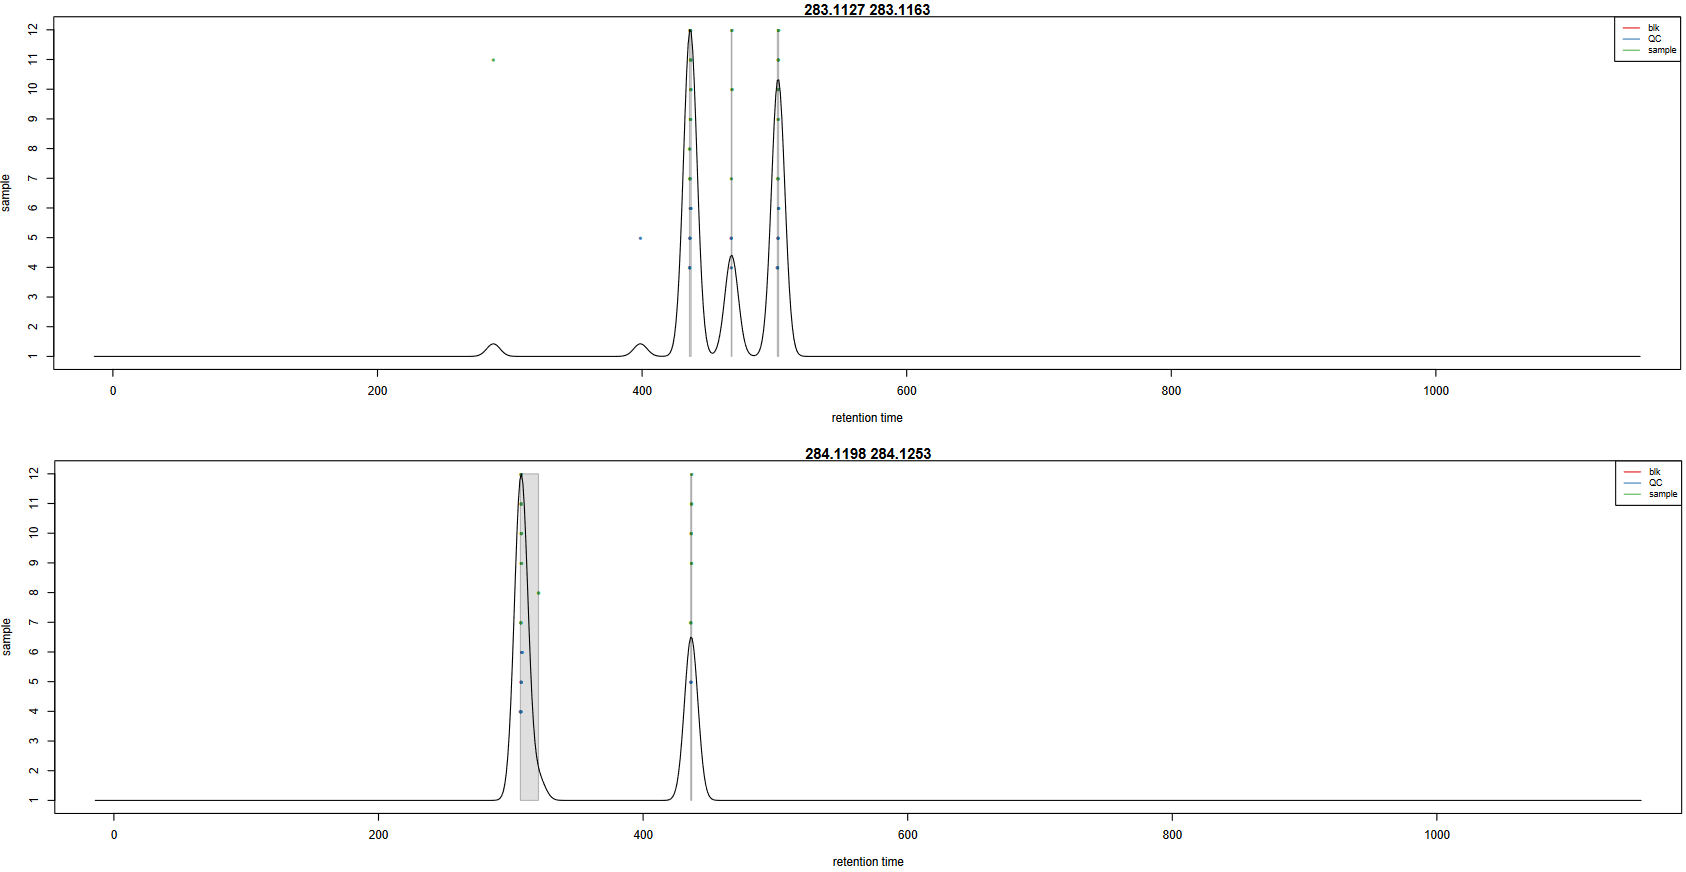
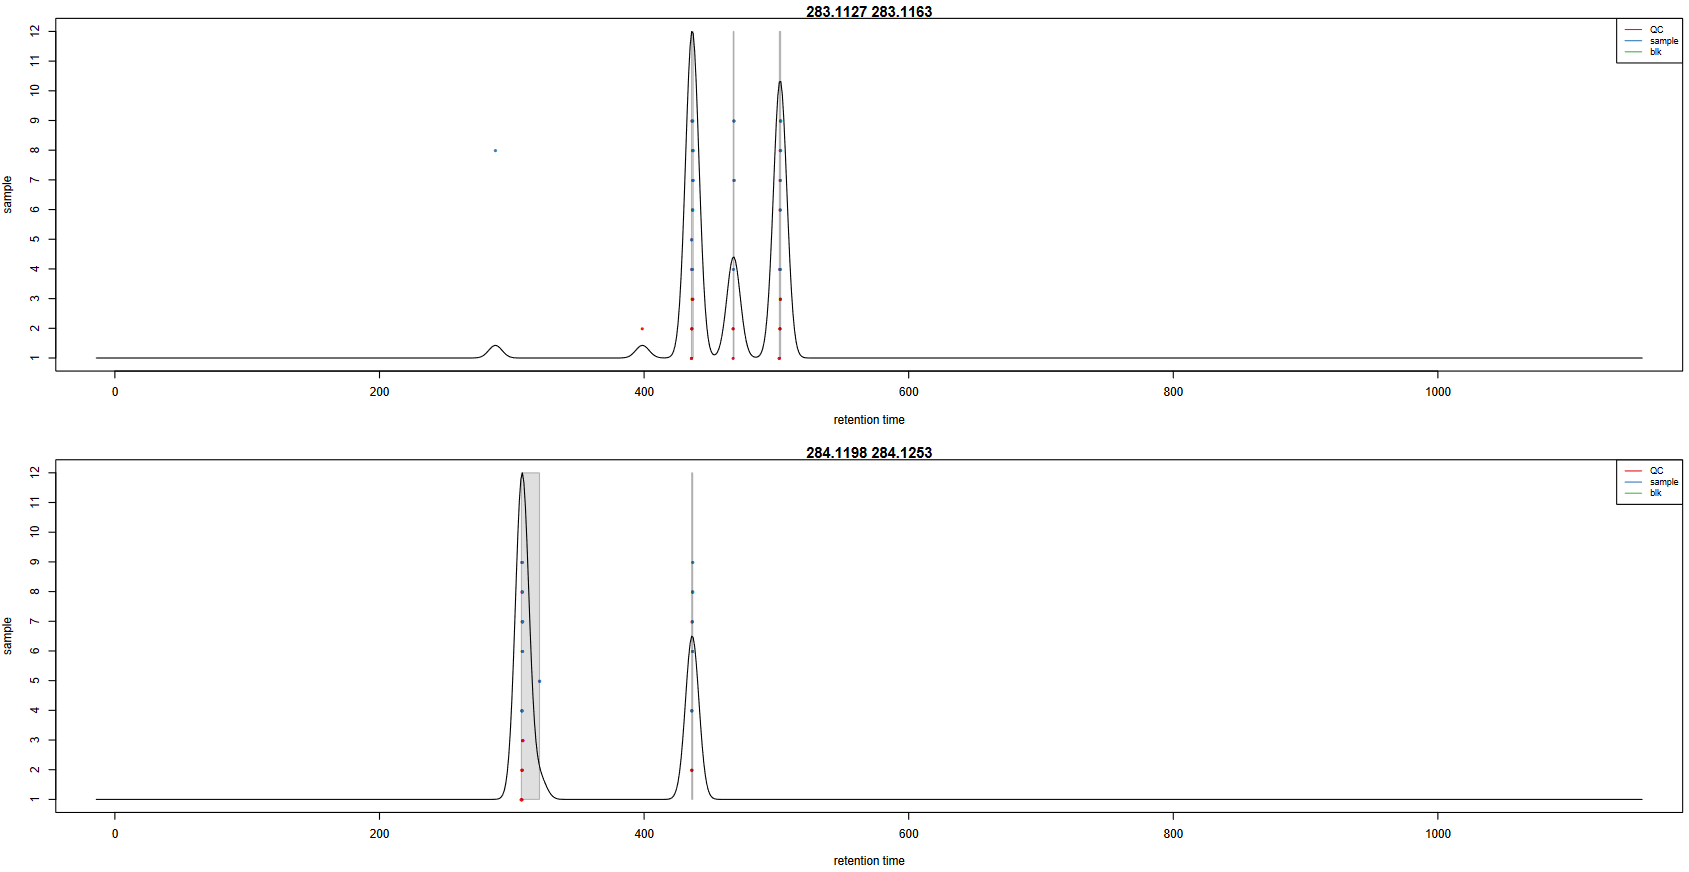
[lcms-preproc] Still a few typos

diff --git a/topics/metabolomics/tutorials/lcms-preprocessing/tutorial.md b/topics/metabolomics/tutorials/lcms-preprocessing/tutorial.md
@@ -1,14 +1,13 @@
 ---
 layout: tutorial_hands_on
-enable: false
 
 title: 'Mass spectrometry: LC-MS preprocessing - advanced'
 zenodo_link: 'https://zenodo.org/record/3757956'
 questions:
-- What are the main steps of untargeted LC-MS data preprocessing for metabolomic analysis?
+- What are the main steps of untargeted LC-MS data preprocessing for metabolomic analyses?
 - How to conduct metabolomic data preprocessing using Galaxy?
 objectives:
-- To comprehend the diversity of steps necessary to perform untargetted LC-MS metabolomic preprocessing.
+- To comprehend the diversity of steps necessary to perform untargeted LC-MS metabolomic preprocessing.
 - To get familiar with the way to use XCMS-based Galaxy modules dedicated to LC-MS data preprocessing.
 - To evaluate the potential of a workflow approach when dealing with LC-MS preprocessing.
 time_estimation: '3h'
@@ -32,8 +31,8 @@ Metabolomics is a *-omic* science known for being one of the most closely relate
 It involves the study of different types of matrices, such as blood, urine, tissues, in various organisms including plants.
 It focuses on studying the very small molecules which are called *metabolites*, to better understand matters linked to the metabolism.
 
-One of the three main technologies used to perform metabolomic analysis is **Liquid-Chromatography Mass Spectrometry** (LC-MS). Data analysis
-for this technology requires a large variety of steps, ranging from extracting information from the raw data, to statistical analysis and annotation.
+One of the three main technologies used to perform metabolomic analyses is **Liquid-Chromatography Mass Spectrometry** (LC-MS). Data analysis
+for this technology requires a large variety of steps, ranging from extracting information from the raw data to statistical analysis and annotation.
 To be able to perform a complete LC-MS analysis in a single environment, the [Wokflow4Metabolomics](http://workflow4metabolomics.org/)
 team provides Galaxy tools dedicated to metabolomics. This tutorial details the steps involved in the first part of untargeted LC-MS 
 data processing: extracting information from raw data to obtain what is called a peak table. This step is commonly refered to as
@@ -45,7 +44,7 @@ from 183 employees from the French Alternative Energies and Atomic Energy Commis
 (negative ionization mode).
 
 Since the original dataset takes a few hours to be processed, we chose to take a limited subset of individuals for this tutorial.
-This will allow you to perform an example of metabolomic preprocessing workflow in a limited time, even though
+This will enable you to perform an example of metabolomic preprocessing workflow in a limited time, even though
 the results obtained may not be reliable enough for biological interpretation due to the small sample size.
 Nevertheless, the chosen diversity of sample will allow you to explore the basics of a preprocessing workflow.
 
@@ -107,8 +106,8 @@ First of all, you need to upload your data (that must be in one of the cited ope
 
 In metabolomics studies, the number of samples can vary a lot (from a handful to several hundreds). Thus, extracting your
 data from the raw files can be very fast, or take quite a long time. To optimise the computation time as much as possible,
-the W4M core team chose to develop tools that can run single raw files for the first steps of
-pre-processing in parallel, since the initial actions in the extraction process treat files independently.
+the W4M core team chose to develop tools that can run single raw files in parallel for the first steps of
+pre-processing, since the initial actions in the extraction process treat files independently.
 
 Since the first steps can be run on each file independently, the use of **Dataset collections** in Galaxy is recommended, to avoid
 having to launch jobs manually for each sample. You can start using the dataset collection option from the very beginning of your analysis, when uploading your data into Galaxy.
@@ -171,7 +170,7 @@ This first step is only meant to read your `mzXML` file and generate an object u
 
 > ### {% icon hands_on %} Hands-on: MSnbase readMSData
 >
-> **MSnbase readMSData** {% icon tool %} with the following parameters:
+> Run **MSnbase readMSData** {% icon tool %} with the following parameters:
 >   - *"File(s) from your history containing your chromatograms"*: the `mzML` dataset collection
 >
 >   {% include snippets/select_collection.md %}
@@ -515,7 +514,7 @@ with the second column defining theses classes.
 
 > ### {% icon hands_on %} Hands-on: xcms findChromPeaks Merger
 >
-> **xcms findChromPeaks Merger** {% icon tool %} with the following parameters:
+> 1. **xcms findChromPeaks Merger** {% icon tool %} with the following parameters:
 >   - *"RData file"*: `mzML.raw.xset.RData` (collection)
 >   - *"Sample metadata file"*: `sampleMetadata_completed.tsv`
 >
@@ -552,7 +551,7 @@ model to group together peaks with similar retention time.
 
 The inclusion of ions in a group is defined by the standard deviation of the Gaussian model, called bandwidth. This parameter has a large weight
 on the resulting matrix. It must be chosen according to the quality of the chromatography. To be valid, the number of ions in a group must be greater
-than a given number of samples. Either a percentage of the total number of samples or an absolute value of samples can be given. This is defined by the user.
+than a given number of samples. Either a percentage of the total number of samples or an absolute number of samples can be given. This is defined by the user.
 
 > ### {% icon hands_on %} Hands-on: xcms groupChromPeaks (group)
 >
@@ -563,18 +562,18 @@ than a given number of samples. Either a percentage of the total number of sampl
 >     - *"Minimum fraction of samples"*: `0.9`
 >     - *"Width of overlapping m/z slices"*: `0.01`
 >   - *"Get the Peak List"*: `Yes`
->     - *"Replace the remain NA by 0 in the dataMatrix"*: `No`
+>     - *"If NA values remain, replace them by 0 in the dataMatrix"*: `No`
 >
 > > ### {% icon comment %} Minimum fraction of samples
 > >
-> > This parameter sets the minimum proportion of samples in a class where a peak should have been found to keep the corresponding ion in the peaktable.
+> > This parameter sets the minimum proportion of samples in a class where a peak should be found to keep the corresponding ion in the peaktable.
 > > The idea is to look inside each class (*i.e.* each group of samples defined in the second column of the sampleMetadata file) and to keep
 > > an ion if there is at least one class where the ion is found in at least the specified proportion of samples.
 > >
 > > In this tutorial, we considered three classes: one for samples, one for pools and one for blanks. Since pools are a mix of all biological samples,
-> > we may want to consider an ion only if it is find in every pools. Thus, we may consider setting the 'Minimum fraction of samples' parameter to 1.
+> > we may want to consider an ion only if it is found in every pools. Thus, we may consider setting the 'Minimum fraction of samples' parameter to 1.
 > > Considering that it sometimes happens that one sample can be a little out of the box for various reasons (pools do not make exception),
-> > we may consider to lower a little this threshold, for example using a proportion of 0.9.
+> > we may consider to lower a little this threshold, for example using a proportion of 0.9. 
 > >
 > > Please note that in our example, since the dataset contains only 3 pools, this would make no difference to 1.0 concerning the 'pools' class.
 > {: .comment}
@@ -592,8 +591,9 @@ This grouping step is very important because it defines the data matrix which wi
 User has to check the effect of parameter values on the result.
 
 In order to check the result of the grouping function, a pdf file is created. It provides one plot per m/z slice found in the data. Each picture
-represents the peak density across samples, plotting the corresponding Gaussian model which width is defined by the bandwidth parameter. Each red
-dot corresponds to a sample. The plot allows to assess the quality of alignment. The grey areas' width is associated with the bandwidth parameter.
+represents the peak density across samples, plotting the corresponding Gaussian model which width is defined by the bandwidth parameter. Each dot
+corresponds to a sample, with colours corresponding to defined classes if any. The plot allows to assess the quality of alignment.
+The grey areas' width is associated with the bandwidth parameter.
 
 Here is an example of two m/z slides obtained from the hands-on:
 
@@ -619,7 +619,7 @@ previous peak group, thus not assigned to any peak group due to the 0.9 minimum 
 {: .question}
 
 When performing a grouping step, you construct a peak table. Even if this step may not be the final extraction step, you can take this opportunity
-to check how your peak table looks like at this point of the XCMS extraction. For this, you need to set the 'Get the Peak List' option to `Yes`
+to check how your peak table looks at this point of the XCMS extraction. For this, you need to set the 'Get the Peak List' option to `Yes`
 as done in this tutorial hands-on. This option generates two additional tables:
 - a data matrix (xset.merged.group.dataMatrix.tsv) with intensities for each ion and each sample;
 - a variable metadata file (xset.merged.group.variableMetadata.tsv) with information concerning the ions.
@@ -631,16 +631,16 @@ The variable metadata file contains various information that can be of interest:
 - the number of samples in which each ion has been found, for each class (one column per class).
 
 The data matrix contains the intensities for each ion and each sample. When no peak was found in a sample for a specific ion, value is given as NA
-(you can choose to get a '0' value instead, using the 'Replace the remain NA by 0 in the dataMatrix' option). You can get a summary of NA proportions
+(you can choose to get a '0' value instead, using the 'If NA values remain, replace them by 0 in the dataMatrix' option). You can get a summary of NA proportions
 using the **Intensity Check** {% icon tool %} module.
 
 > ### {% icon tip %} Optional: Getting an overview of the proportion of NA in your data
 >
 > When you choose to export the peak list while using the **xcms groupChromPeaks (group)** {% icon tool %} module, you can have a first level of
-> information regarding the proportion of NA by looking at the columns of classes you specified (or the `.` column when no class where given) in
+> information regarding the proportion of NA by looking at the columns of classes you specified (or the `.` column when no class were given) in
 > the variable metadata file ('variableMetadata').
 > However, since the number of ions can be of hundreds or thousands, it can be difficult to evaluate the overall proportion in the dataset.
-> Thus, one way to go is to use the variableMetadata to check specific ions (ones you may have chosen a priori and/or ones you spotted due to
+> Thus, one way to go is to use the variableMetadata to check specific ions (ones you may have chosen *a priori* and/or ones you spotted due to
 > outstanding behaviour), and to use the **Intensity Check** {% icon tool %} module to get an overview of the whole dataset.
 >
 > > ### {% icon hands_on %} Hands-on: Intensity Check
@@ -692,12 +692,13 @@ a second grouping step on the corrected data.
 Sometimes with LC-MS techniques, a deviation in retention time occurs from a sample to another. In particular, this is likely to be observed when you
 inject large sequences of samples.
 
-This optional step aims to correct retention time drift for each peak among samples. The correction is based on what is called *well behaved peaks*,
-that are peaks found in all samples or at least in most of the samples.
-
+This optional step aims at correcting retention time drift for each peak among samples. The XCMS package provides two algorithms to do so. 
 [Check slides from 20 to 22](../../tutorials/lcms-preprocessing/slides.html#20),
-you will find additional material to help you understand the retention time correction algorithm.
+you will find additional material to help you understand the retention time correction algorithms.
+In this training material we will focus on the "PeakGroups" method. 
 
+This correction is based on what is called *well behaved peaks*. 
+One characteristic of these peaks is that they are found in all samples or at least in most of the samples.
 Sometimes it is difficult to find enough peaks present in all samples. The user can define a percentage of the total number of samples in which
 a peak should be found to be considered a well behaved peak. This parameter is called *minimum required fraction of samples*.
 
@@ -765,7 +766,7 @@ the datasets number 66 and 67.
 {: .tip}
 
 
-The retention time correction step is not mandatory. However, when it is used retention time are modified.
+The retention time correction step is not mandatory. However, when it is used retention time values are modified.
 Consequently, applying this step on your data requires to complete it with an additional 'grouping' step using the
 **xcms groupChromPeaks (group)** {% icon tool %} tool again.
 
@@ -787,12 +788,12 @@ to get an illustration of grouping before/after retention time correction.
 >    - *"Get the Peak List"*: `Yes`
 >        - *"Convert retention time (seconds) into minutes"*: `Yes`
 >        - *"Number of decimal places for retention time values reported in ions' identifiers."*: `2`
->        - *"Replace the remain NA by 0 in the dataMatrix"*: `No`
+>        - *"If NA values remain, replace them by 0 in the dataMatrix"*: `No`
 >
 >    > ### {% icon comment %} Comment
 >    >
 >    > When performing this second grouping, similarly to the first grouping you can take this opportunity to check how your peak table
-looks like at this point of the XCMS extraction, setting the 'Get the Peak List' option to `Yes`. As previously explained, you can
+looks at this point of the XCMS extraction, setting the 'Get the Peak List' option to `Yes`. As previously explained, you can
 look at your variableMetadata file as well as perform an NA diagnostic using the **Intensity Check** {% icon tool %} module.
 >    {: .comment}
 >
@@ -811,12 +812,12 @@ last adjustRtime step and thus your last grouping step, you will obtain your fin
 >
 > 1. How many ions did you obtained with the final grouping step?
 > 2. Open the dataMatrix file you obtained with the final grouping. This table corresponds to intensities for each ion and each
-sample. What do you notice when looking at the intensity of the first ion regarding the first sample?
+sample. What do you notice when looking at the intensity of the forth ion regarding the first sample?
 >
 > > ### {% icon solution %} Solution
 > >
-> > 1. The final grouping step led to 8105 ions.
-> > 2. The first ion (M58T69) has a 'NA' value for the first sample (QC1_014). This is also the case for several other ions
+> > 1. The final grouping step led to 5100 ions.
+> > 2. The first ion (M74T317) has a 'NA' value for the first sample (QC1_014). This is also the case for several other ions
 and samples.
 > >
 > {: .solution}
@@ -845,24 +846,24 @@ of the proportion of NA in your dataset at this step.
 
 # Final XCMS step: *integrating areas of missing peaks*
 
-The idea of the XCMS step is to integrate signal in the mz-rt area of an ion (chromatographic peak group) for samples in which no
+The idea of this XCMS step is to integrate signal in the mz-rt area of an ion (chromatographic peak group) for samples in which no
 chromatographic peak for this ion was identified.
 To do so, you can use the *xcms fillChromPeaks (fillPeaks)* tool
-([check slide 23](../../tutorials/lcms-preprocessing/slides.html)).
+([check slide 24](../../tutorials/lcms-preprocessing/slides.html#24)).
 
 However, before any automatic filling of missing values, you may be interested in an overview of the NA distribution in your data.
 Indeed, depending on you extraction parameters, you may have an unexpectedly high proportion of NAs in your data. If that is the case,
 you may consider reviewing your previous extraction parameters and re-running previous steps to obtain consistant results before
 proceeding to the integration of missing peak areas.
 
-To get an overview of your missing data, as specified previously you can use the **Intensity check** module.
+To get an overview of your missing data, as specified previously you can use the **Intensity check** {% icon tool %} module.
 
 Once you are satisfied with the optimisation of previous extraction parameters, you can proceed to the integration of missing peak areas.
 
 > ### {% icon hands_on %} Hands-on: xcms fillChromPeaks (fillPeaks)
 >
 > **xcms fillChromPeaks (fillPeaks)** {% icon tool %} with the following parameters:
->    - *"RData file"*: `xset.merged.groupChromPeaks.*.RData`
+>    - *"RData file"*: `xset.merged.groupChromPeaks.*.RData` (last step of your previous XCMS step)
 >    - In *"Peak List"*:
 >        - *"Convert retention time (seconds) into minutes"*: `Yes`
 >        - *"Number of decimal places for retention time values reported in ions' identifiers."*: `2`
@@ -907,7 +908,7 @@ for a first attempt to run this function. Nevertheless, a few parameters have to
 
  Apart from the PDF file, the main three outcomes from **CAMERA.annotate** {% icon tool %} are three columns added in the variableMetadata file:
  - **isotopes:** the name says everything
- - **adduct:** same here; this column is filled only in the 'All functions' mode
+ - **adduct:** same here; this column is filled in the 'All functions' mode only
  - **pcgroup:** this stands for Pearson's correlation group; it corresponds to groups of ions that match regarding retention time and intensity
  correlations, leading to think that maybe they could come from the same original metabolite.
 
@@ -936,7 +937,7 @@ the datasets number 75 and 76.
 >
 {: .hands_on}
 
-The information given by this tool is not mandatory for the next step of the metabolomic workflow. Commonly, annotation is considered a later
+The information given by this tool is not mandatory for the next step of a metabolomic workflow. Commonly, annotation is considered a later
 step in the pipeline, but since CAMERA uses the outputs of XCMS, if you want to use it you better do it at this step, allowing you to have the
 corresponding information in your variableMetadata file for later use.
 
